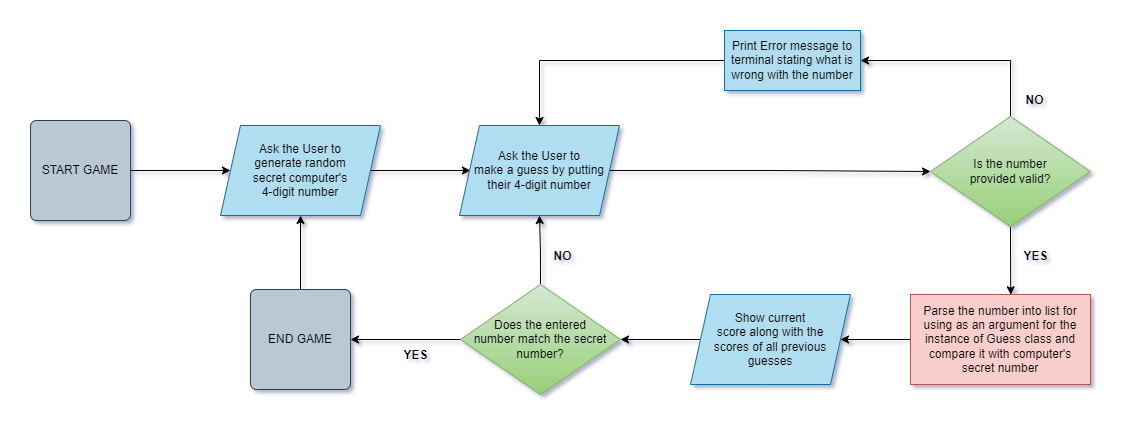
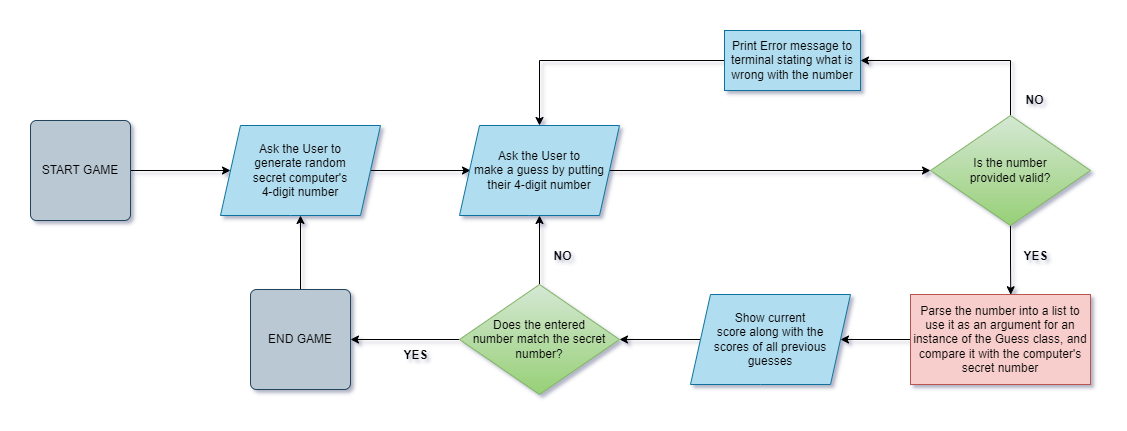
Start creating main class Guess and putting bull- and cow- counter functions into it

diff --git a/run.py b/run.py
@@ -32,38 +32,67 @@ def number_generator():
         if a not in list_num:
             list_num.append(a)
 
-    print(list_num)
     return list_num
 
 
 secret_number = number_generator()
 
 
-def bull_counter(list1, list2):
+class Guess:
     '''
-    Counts the number of digits that are in the correct position
+    Main Guess class. It takes two lists as parameters during initialization.
+    The first parameter is passed as an argument when creating an instance of
+    the class, which is based on user input. The second parameter, by default,
+    contains a list of digits of the secret number.
+    Contains class attribute guess_list which adds to list instance attributes 
+    after each initialization
+
     '''
-    bull_counter = 0
-    for i in range(4):
-        if list1[i] == list2[i]:
-            bull_counter += 1
-    return bull_counter
+    guess_list = []
 
-result_1 = bull_counter([1,2,3,4], [1,2,3,4])
-print(result_1)
+    def __init__(self, my_guess, secret=secret_number):
+        self.my_guess = my_guess
+        self.secret = secret
+        Guess.guess_list.append(self)
+
+    def bull_counter(self):
+        '''
+        Counts the number of digits that are in the correct position
+        '''
+        bull_counter = 0
+        for i in range(4):
+            if self.my_guess[i] == self.secret[i]:
+                bull_counter += 1
+        return bull_counter
+
+    def cow_counter(self):
+        '''
+        Counts the number of digits that are in the chosen number
+        '''
+        cow_counter = 0
+        for i in range(4):
+            if (self.my_guess[i] in self.secret) and (self.my_guess[i] != self.secret[i]):
+                cow_counter += 1
+        return cow_counter
+
+    def show_all_scores(self):
+        for i in Guess.guess_list:
+            print(i.my_guess)
 
 
-def cow_counter(list1, list2):
-    '''
-    Counts the number of digits that are in the chosen number
-    '''
-    cow_counter = 0
-    for i in range(4):
-        if (list1[i] in list2) and (list1[i] != list2[i]):
-            cow_counter += 1
-    return cow_counter
+guess1 = Guess([2, 4, 5, 6])
+guess2 = Guess([2, 7, 5, 0])
+guess3 = Guess([1, 9, 3, 6])
+# BULL1 = guess1.bull_counter()
+# COW1 = guess1.cow_counter()
+# print(secret_number)
+# print(f'{guess1.my_guess}|{BULL1}-{COW1}')
+guess3.show_all_scores()
 
-result_2 = cow_counter([4,3,2,5], [1,2,3,4])
-print(result_2)
+
+
+
+
+
 
 
